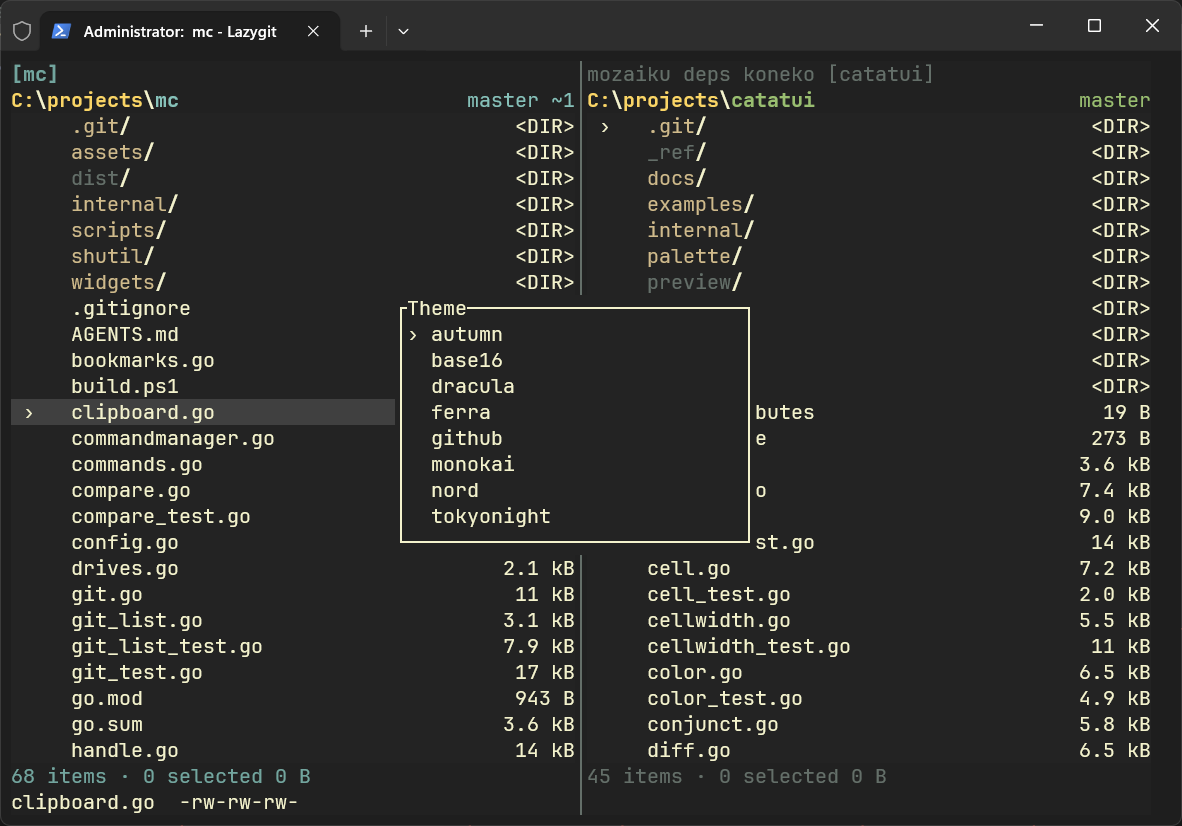
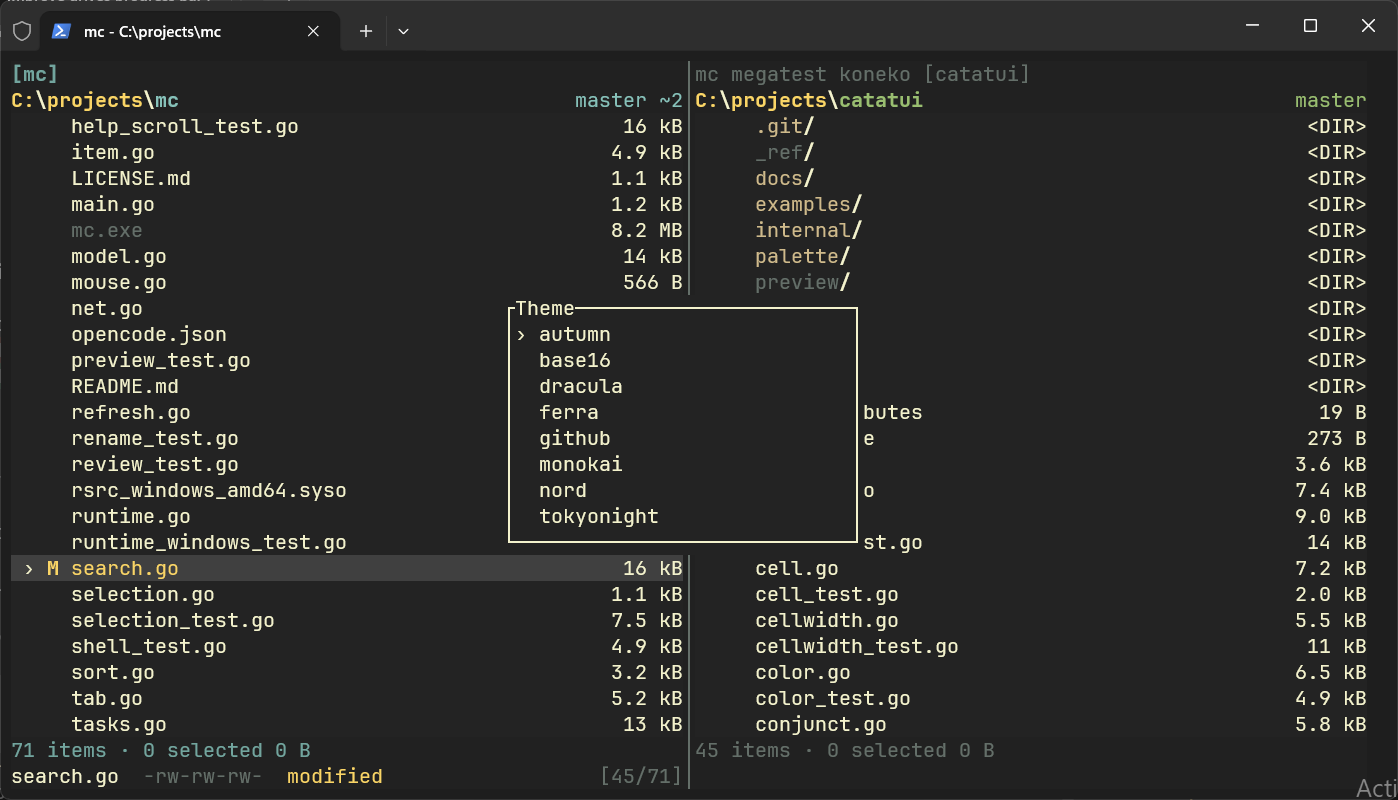
Polish drive gauges and status colors for v2.2.2

diff --git a/view_native.go b/view_native.go
@@ -13,7 +13,7 @@ import (
 	"github.com/dustin/go-humanize"
 )
 
-// driveBarCells is the width of the free-space gauge drawn before a drive's
+// driveBarCells is the width of the usage gauge drawn before a drive's
 // size text in the listing.
 const driveBarCells = 10
 
@@ -252,9 +252,16 @@ func (m *model) drawPane(f *catatui.Frame, a catatui.Rect, p *pane, paneIndex in
 						metadata = " " + file.sizeStr
 					} else if d, ok := it.(*driveItem); ok {
 						if d.total > 0 {
-							used := int(float64(d.total-d.free)/float64(d.total)*driveBarCells + 0.5)
+							ratio := float64(d.total-min(d.free, d.total)) / float64(d.total)
+							used := int(ratio*driveBarCells + 0.5)
 							used = min(driveBarCells, max(0, used))
-							metadata = s.Foreground(m.theme.grayColor).Render(strings.Repeat("█", used)) + s.Foreground(m.theme.grayColor).Render(strings.Repeat("░", driveBarCells-used))
+							barColor := m.theme.greenColor
+							if ratio >= 0.9 {
+								barColor = m.theme.redColor
+							} else if ratio >= 0.75 {
+								barColor = m.theme.accentColor4
+							}
+							metadata = s.Foreground(barColor).Render(strings.Repeat("━", used)) + s.Foreground(m.theme.grayColor).Render(strings.Repeat("─", driveBarCells-used))
 							free := fmt.Sprintf("%*s", driveSizeCells, humanize.Bytes(d.free))
 							total := fmt.Sprintf("%*s", driveSizeCells, humanize.Bytes(d.total))
 							metadata += s.Foreground(m.theme.greenColor).Render(" "+free) + s.Foreground(m.theme.grayColor).Render(" / "+total)
@@ -305,7 +312,7 @@ func (m *model) drawPane(f *catatui.Frame, a catatui.Rect, p *pane, paneIndex in
 				it := items[settings.cursor]
 				footer = it.getName() + "  " + style.Foreground(m.theme.grayColor).Render(it.getExtra())
 				if file, ok := it.(*filepathItem); ok && file.git != gitNone {
-					footer += "  " + file.git.name()
+					footer += "  " + style.Foreground(m.gitColor(file.git)).Render(file.git.name())
 				}
 				if drive, ok := it.(*driveItem); ok {
 					footer = fmt.Sprintf("%s free / %s · %s", humanize.Bytes(drive.free), humanize.Bytes(drive.total), drive.driveType)
@@ -314,7 +321,7 @@ func (m *model) drawPane(f *catatui.Frame, a catatui.Rect, p *pane, paneIndex in
 					}
 				}
 				pos := style.Foreground(m.theme.grayColor).Render(fmt.Sprintf(" [%d/%d]", settings.cursor+1, len(items)))
-				room := max(0, int(a.Width) - paint.Width(pos))
+				room := max(0, int(a.Width)-paint.Width(pos))
 				footer = paint.Truncate(footer, room) + strings.Repeat(" ", max(0, room-paint.Width(footer))) + pos
 			}
 		}

diff --git a/search.go b/search.go
@@ -301,6 +301,8 @@ func viewSearch(m *model) string {
 			actualIndex, lineIndex := m.search.mapIndex(index)
 			item := m.search.items[actualIndex]
 			line := item.lines[lineIndex]
+			const branchIndent = 1
+			s.WriteString(style.Render(strings.Repeat(" ", branchIndent)))
 			if lineIndex != len(item.lines)-1 {
 				s.WriteString(style.Foreground(m.theme.grayColor).Render("├─"))
 			} else {
@@ -309,7 +311,7 @@ func viewSearch(m *model) string {
 			lineNumber := strconv.Itoa(line.lineNumber)
 			s.WriteString(style.Foreground(m.theme.greenColor).Render(lineNumber))
 			s.WriteString(style.Render(":"))
-			lineLength := 7 + len(lineNumber)
+			lineLength := 7 + branchIndent + len(lineNumber)
 			token1 := line.line[:line.start]
 			token2 := line.line[line.start:line.end]
 			token3 := line.line[line.end:]

diff --git a/main.go b/main.go
@@ -9,7 +9,7 @@ import (
 
 var (
 	// Set by build flags
-	Version   = "2.1.3-dev"
+	Version   = "2.2.2-dev"
 	GitCommit = ""
 	BuildTime = ""
 )
